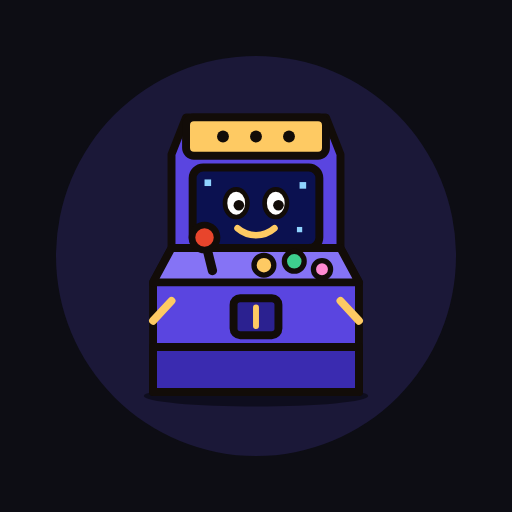
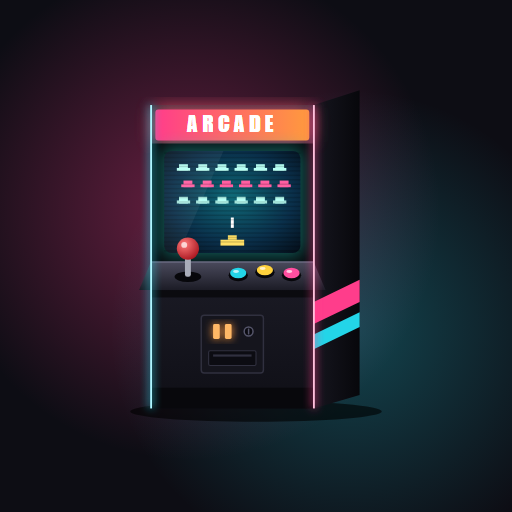
Arcade : l'icône faisait dessin animé, elle devient une vraie borne d'arcade
Julie : « pas enfantin, une vraie arcade ». Meuble noir vu de trois quarts,
fronton allumé, écran cathodique, manette et boutons, monnayeur, liserés néon.
Plus de visage ni de trait épais.

diff --git a/icone.html b/icone.html
@@ -5,43 +5,93 @@ html,body{margin:0;padding:0;background:#fff}
 .icone svg,.masquable svg{display:block;width:512px;height:512px}
 </style></head>
 <body>
-<!-- Une borne d'arcade, vivante (demandé par Julie le 2026-10-05 : « une icône
-     d'arcade »), sur le fond de l'app. tools/chevalier-icones.mjs . photographie
-     .icone (192 et 512) et .masquable (512) : le fond de celle-ci est EXACTEMENT le
-     background_color du manifeste, et le dessin tient dans le cercle central. -->
-<div class="icone"><svg xmlns="http://www.w3.org/2000/svg" viewBox="0 0 512 512"><rect width="512" height="512" fill="#0d0d14"/><circle cx="256" cy="250" r="230" fill="#1b1838"/>
-    <ellipse cx="256" cy="474" rx="170" ry="16" fill="rgba(0,0,0,.45)"/>
-    <path d="M150 52H362L384 108V250L412 302V468H100V302L128 250V108Z" fill="#5a45e0" stroke="#120c08" stroke-width="12" stroke-linejoin="round" stroke-linecap="round"/>
-    <path d="M100 400H412V468H100Z" fill="#3a2bb0" stroke="#120c08" stroke-width="12" stroke-linejoin="round" stroke-linecap="round"/>
-    <path d="M128 330l-28 30M384 330l28 30" stroke="#feca63" stroke-width="12" stroke-linecap="round"/>
-    <rect x="150" y="52" width="212" height="58" rx="12" fill="#feca63" stroke="#120c08" stroke-width="12" stroke-linejoin="round" stroke-linecap="round"/>
-    <g fill="#120c08"><circle cx="206" cy="81" r="9"/><circle cx="256" cy="81" r="9"/><circle cx="306" cy="81" r="9"/></g>
-    <rect x="160" y="128" width="192" height="122" rx="16" fill="#0b1150" stroke="#120c08" stroke-width="12" stroke-linejoin="round" stroke-linecap="round"/>
-    <g fill="#8fd3ff"><rect x="178" y="146" width="10" height="10"/><rect x="322" y="150" width="10" height="10"/><rect x="186" y="222" width="8" height="8"/><rect x="318" y="218" width="8" height="8"/></g>
-    <ellipse cx="226" cy="182" rx="17" ry="21" fill="#fff" stroke="#120c08" stroke-width="7"/><circle cx="230" cy="185" r="8" fill="#120c08"/>
-    <ellipse cx="286" cy="182" rx="17" ry="21" fill="#fff" stroke="#120c08" stroke-width="7"/><circle cx="290" cy="185" r="8" fill="#120c08"/>
-    <path d="M228 220c16 14 40 14 56 0" fill="none" stroke="#feca63" stroke-width="10" stroke-linecap="round"/>
-    <path d="M128 250H384L412 302H100Z" fill="#8573f5" stroke="#120c08" stroke-width="12" stroke-linejoin="round" stroke-linecap="round"/>
-    <path d="M190 284L180 244" stroke="#120c08" stroke-width="14" stroke-linecap="round"/><circle cx="178" cy="234" r="19" fill="#e8452c" stroke="#120c08" stroke-width="10"/>
-    <circle cx="268" cy="276" r="15" fill="#feca63" stroke="#120c08" stroke-width="8"/><circle cx="314" cy="270" r="15" fill="#3ecf8e" stroke="#120c08" stroke-width="8"/><circle cx="356" cy="282" r="13" fill="#ff8ad1" stroke="#120c08" stroke-width="8"/>
-    <rect x="222" y="326" width="68" height="56" rx="10" fill="#2b2190" stroke="#120c08" stroke-width="12" stroke-linejoin="round" stroke-linecap="round"/><path d="M256 340v28" stroke="#feca63" stroke-width="9" stroke-linecap="round"/>
+<!-- Une VRAIE borne d'arcade (Julie, 2026-10-05 : « pas enfantin, une vraie
+     arcade ») : meuble noir vu de trois quarts, fronton allumé, écran cathodique,
+     manette et boutons, monnayeur, liserés néon. Pas de visage, pas de trait de
+     dessin animé. tools/chevalier-icones.mjs . photographie .icone (192 et 512) et
+     .masquable (512) : le fond de celle-ci est EXACTEMENT le background_color du
+     manifeste, et le dessin tient dans le cercle central. -->
+<div class="icone"><svg xmlns="http://www.w3.org/2000/svg" viewBox="0 0 512 512"><defs>
+  <linearGradient id="corps" x1="0" y1="0" x2="0" y2="1"><stop offset="0" stop-color="#2a2a38"/><stop offset="1" stop-color="#0f0f16"/></linearGradient>
+  <linearGradient id="cote" x1="0" y1="0" x2="1" y2="0"><stop offset="0" stop-color="#16161f"/><stop offset="1" stop-color="#07070b"/></linearGradient>
+  <linearGradient id="fronton" x1="0" y1="0" x2="1" y2="0"><stop offset="0" stop-color="#ff3d8b"/><stop offset="1" stop-color="#ff9a3d"/></linearGradient>
+  <linearGradient id="pupitre" x1="0" y1="0" x2="0" y2="1"><stop offset="0" stop-color="#4a4a5c"/><stop offset="1" stop-color="#1c1c26"/></linearGradient>
+  <radialGradient id="ecran" cx=".5" cy=".45" r=".75"><stop offset="0" stop-color="#0f6a78"/><stop offset=".6" stop-color="#0a2f4a"/><stop offset="1" stop-color="#040c16"/></radialGradient>
+  <radialGradient id="boule" cx=".35" cy=".3" r=".8"><stop offset="0" stop-color="#ff7a7a"/><stop offset="1" stop-color="#a3101a"/></radialGradient>
+  <radialGradient id="halo1" cx=".5" cy=".5" r=".5"><stop offset="0" stop-color="#ff3d8b" stop-opacity=".38"/><stop offset="1" stop-color="#ff3d8b" stop-opacity="0"/></radialGradient>
+  <radialGradient id="halo2" cx=".5" cy=".5" r=".5"><stop offset="0" stop-color="#23d5e8" stop-opacity=".28"/><stop offset="1" stop-color="#23d5e8" stop-opacity="0"/></radialGradient>
+  <filter id="lueur" x="-30%" y="-30%" width="160%" height="160%"><feGaussianBlur stdDeviation="12"/></filter>
+  <filter id="lueur2" x="-300%" y="-30%" width="700%" height="160%"><feGaussianBlur stdDeviation="6"/></filter>
+</defs><rect width="512" height="512" fill="#0d0d14"/><circle cx="190" cy="210" r="250" fill="url(#halo1)"/><circle cx="350" cy="330" r="240" fill="url(#halo2)"/><g transform="translate(256 256) scale(1.08) translate(-262 -262)">
+  <ellipse cx="262" cy="474" rx="170" ry="14" fill="#000" opacity=".6"/>
+  <path d="M340 60L402 40V452L340 470Z" fill="url(#cote)"/>
+  <path d="M340 326L402 296V326L340 356Z" fill="#ff3d8b"/><path d="M340 370L402 340V360L340 390Z" fill="#23d5e8"/>
+  <rect x="120" y="60" width="220" height="410" fill="url(#corps)"/>
+  <rect x="124" y="64" width="212" height="46" rx="4" fill="#ff5a6e" filter="url(#lueur)" opacity=".8"/>
+  <rect x="126" y="66" width="208" height="42" rx="4" fill="url(#fronton)"/>
+  <text x="230" y="97" text-anchor="middle" font-family="Impact, 'Arial Black', sans-serif" font-size="30" letter-spacing="5" fill="#fff">ARCADE</text>
+  <rect x="120" y="112" width="220" height="160" fill="#07070b"/>
+  <rect x="134" y="118" width="192" height="146" rx="12" fill="#1ad1c0" filter="url(#lueur)" opacity=".45"/>
+  <rect x="138" y="122" width="184" height="138" rx="10" fill="url(#ecran)"/>
+  <rect x="158" y="140" width="12" height="9" fill="#b7fff4"/><rect x="155" y="145" width="18" height="4" fill="#b7fff4"/><rect x="184" y="140" width="12" height="9" fill="#b7fff4"/><rect x="181" y="145" width="18" height="4" fill="#b7fff4"/><rect x="210" y="140" width="12" height="9" fill="#b7fff4"/><rect x="207" y="145" width="18" height="4" fill="#b7fff4"/><rect x="236" y="140" width="12" height="9" fill="#b7fff4"/><rect x="233" y="145" width="18" height="4" fill="#b7fff4"/><rect x="262" y="140" width="12" height="9" fill="#b7fff4"/><rect x="259" y="145" width="18" height="4" fill="#b7fff4"/><rect x="288" y="140" width="12" height="9" fill="#b7fff4"/><rect x="285" y="145" width="18" height="4" fill="#b7fff4"/><rect x="164" y="162" width="12" height="9" fill="#ff5fa2"/><rect x="161" y="167" width="18" height="4" fill="#ff5fa2"/><rect x="190" y="162" width="12" height="9" fill="#ff5fa2"/><rect x="187" y="167" width="18" height="4" fill="#ff5fa2"/><rect x="216" y="162" width="12" height="9" fill="#ff5fa2"/><rect x="213" y="167" width="18" height="4" fill="#ff5fa2"/><rect x="242" y="162" width="12" height="9" fill="#ff5fa2"/><rect x="239" y="167" width="18" height="4" fill="#ff5fa2"/><rect x="268" y="162" width="12" height="9" fill="#ff5fa2"/><rect x="265" y="167" width="18" height="4" fill="#ff5fa2"/><rect x="294" y="162" width="12" height="9" fill="#ff5fa2"/><rect x="291" y="167" width="18" height="4" fill="#ff5fa2"/><rect x="158" y="184" width="12" height="9" fill="#b7fff4"/><rect x="155" y="189" width="18" height="4" fill="#b7fff4"/><rect x="184" y="184" width="12" height="9" fill="#b7fff4"/><rect x="181" y="189" width="18" height="4" fill="#b7fff4"/><rect x="210" y="184" width="12" height="9" fill="#b7fff4"/><rect x="207" y="189" width="18" height="4" fill="#b7fff4"/><rect x="236" y="184" width="12" height="9" fill="#b7fff4"/><rect x="233" y="189" width="18" height="4" fill="#b7fff4"/><rect x="262" y="184" width="12" height="9" fill="#b7fff4"/><rect x="259" y="189" width="18" height="4" fill="#b7fff4"/><rect x="288" y="184" width="12" height="9" fill="#b7fff4"/><rect x="285" y="189" width="18" height="4" fill="#b7fff4"/>
+  <rect x="224" y="236" width="12" height="6" fill="#ffe066"/><rect x="214" y="242" width="32" height="8" fill="#ffe066"/><rect x="228" y="212" width="4" height="14" fill="#fff"/>
+  <rect x="138" y="124" width="184" height="2" fill="#000" opacity=".16"/><rect x="138" y="130" width="184" height="2" fill="#000" opacity=".16"/><rect x="138" y="136" width="184" height="2" fill="#000" opacity=".16"/><rect x="138" y="142" width="184" height="2" fill="#000" opacity=".16"/><rect x="138" y="148" width="184" height="2" fill="#000" opacity=".16"/><rect x="138" y="154" width="184" height="2" fill="#000" opacity=".16"/><rect x="138" y="160" width="184" height="2" fill="#000" opacity=".16"/><rect x="138" y="166" width="184" height="2" fill="#000" opacity=".16"/><rect x="138" y="172" width="184" height="2" fill="#000" opacity=".16"/><rect x="138" y="178" width="184" height="2" fill="#000" opacity=".16"/><rect x="138" y="184" width="184" height="2" fill="#000" opacity=".16"/><rect x="138" y="190" width="184" height="2" fill="#000" opacity=".16"/><rect x="138" y="196" width="184" height="2" fill="#000" opacity=".16"/><rect x="138" y="202" width="184" height="2" fill="#000" opacity=".16"/><rect x="138" y="208" width="184" height="2" fill="#000" opacity=".16"/><rect x="138" y="214" width="184" height="2" fill="#000" opacity=".16"/><rect x="138" y="220" width="184" height="2" fill="#000" opacity=".16"/><rect x="138" y="226" width="184" height="2" fill="#000" opacity=".16"/><rect x="138" y="232" width="184" height="2" fill="#000" opacity=".16"/><rect x="138" y="238" width="184" height="2" fill="#000" opacity=".16"/><rect x="138" y="244" width="184" height="2" fill="#000" opacity=".16"/><rect x="138" y="250" width="184" height="2" fill="#000" opacity=".16"/><rect x="138" y="256" width="184" height="2" fill="#000" opacity=".16"/>
+  <path d="M138 132a10 10 0 0110-10h70l-60 138h-10a10 10 0 01-10-10z" fill="#fff" opacity=".06"/>
+  <path d="M120 272H340L356 310H104Z" fill="url(#pupitre)"/><path d="M120 272H340" stroke="#6a6a80" stroke-width="2"/>
+  <ellipse cx="170" cy="292" rx="18" ry="7" fill="#07070b"/><rect x="166" y="260" width="8" height="32" rx="3" fill="#a9adba"/><circle cx="170" cy="254" r="15" fill="url(#boule)"/><circle cx="165" cy="249" r="4" fill="#fff" opacity=".7"/>
+  <g><ellipse cx="238" cy="290" rx="13" ry="8" fill="#07070b"/><ellipse cx="238" cy="287" rx="11" ry="7" fill="#23d5e8"/><ellipse cx="235" cy="285" rx="4" ry="2" fill="#fff" opacity=".7"/>
+     <ellipse cx="274" cy="286" rx="13" ry="8" fill="#07070b"/><ellipse cx="274" cy="283" rx="11" ry="7" fill="#ffd23d"/><ellipse cx="271" cy="281" rx="4" ry="2" fill="#fff" opacity=".7"/>
+     <ellipse cx="310" cy="290" rx="13" ry="8" fill="#07070b"/><ellipse cx="310" cy="287" rx="11" ry="7" fill="#ff4fa0"/><ellipse cx="307" cy="285" rx="4" ry="2" fill="#fff" opacity=".7"/></g>
+  <rect x="120" y="310" width="220" height="10" fill="#000" opacity=".55"/>
+  <rect x="188" y="344" width="84" height="78" rx="4" fill="#15151d" stroke="#30303f" stroke-width="2"/>
+  <rect x="204" y="356" width="9" height="20" rx="2" fill="#ff9a3d" filter="url(#lueur2)"/><rect x="220" y="356" width="9" height="20" rx="2" fill="#ff9a3d" filter="url(#lueur2)"/>
+  <rect x="204" y="356" width="9" height="20" rx="2" fill="#ffb866"/><rect x="220" y="356" width="9" height="20" rx="2" fill="#ffb866"/>
+  <circle cx="252" cy="366" r="6" fill="#0a0a10" stroke="#55556a" stroke-width="2"/><rect x="251" y="362" width="2" height="8" fill="#55556a"/>
+  <rect x="198" y="392" width="64" height="20" rx="2" fill="#0c0c12" stroke="#30303f" stroke-width="1.5"/><rect x="204" y="397" width="52" height="3" fill="#30303f"/>
+  <rect x="120" y="442" width="220" height="28" fill="#08080c"/>
+  <rect x="118" y="60" width="4" height="410" fill="#23d5e8" filter="url(#lueur2)"/><rect x="119" y="60" width="2.5" height="410" fill="#aef6ff"/>
+  <rect x="338" y="60" width="4" height="410" fill="#ff3d8b" filter="url(#lueur2)"/><rect x="339" y="60" width="2.5" height="410" fill="#ffc0dc"/></g>
 </svg></div>
-<div class="masquable"><svg xmlns="http://www.w3.org/2000/svg" viewBox="0 0 512 512"><rect width="512" height="512" fill="#0d0d14"/><circle cx="256" cy="256" r="200" fill="#1b1838"/>
-  <g transform="translate(256 256) scale(.66) translate(-256 -262)">
-    <ellipse cx="256" cy="474" rx="170" ry="16" fill="rgba(0,0,0,.45)"/>
-    <path d="M150 52H362L384 108V250L412 302V468H100V302L128 250V108Z" fill="#5a45e0" stroke="#120c08" stroke-width="12" stroke-linejoin="round" stroke-linecap="round"/>
-    <path d="M100 400H412V468H100Z" fill="#3a2bb0" stroke="#120c08" stroke-width="12" stroke-linejoin="round" stroke-linecap="round"/>
-    <path d="M128 330l-28 30M384 330l28 30" stroke="#feca63" stroke-width="12" stroke-linecap="round"/>
-    <rect x="150" y="52" width="212" height="58" rx="12" fill="#feca63" stroke="#120c08" stroke-width="12" stroke-linejoin="round" stroke-linecap="round"/>
-    <g fill="#120c08"><circle cx="206" cy="81" r="9"/><circle cx="256" cy="81" r="9"/><circle cx="306" cy="81" r="9"/></g>
-    <rect x="160" y="128" width="192" height="122" rx="16" fill="#0b1150" stroke="#120c08" stroke-width="12" stroke-linejoin="round" stroke-linecap="round"/>
-    <g fill="#8fd3ff"><rect x="178" y="146" width="10" height="10"/><rect x="322" y="150" width="10" height="10"/><rect x="186" y="222" width="8" height="8"/><rect x="318" y="218" width="8" height="8"/></g>
-    <ellipse cx="226" cy="182" rx="17" ry="21" fill="#fff" stroke="#120c08" stroke-width="7"/><circle cx="230" cy="185" r="8" fill="#120c08"/>
-    <ellipse cx="286" cy="182" rx="17" ry="21" fill="#fff" stroke="#120c08" stroke-width="7"/><circle cx="290" cy="185" r="8" fill="#120c08"/>
-    <path d="M228 220c16 14 40 14 56 0" fill="none" stroke="#feca63" stroke-width="10" stroke-linecap="round"/>
-    <path d="M128 250H384L412 302H100Z" fill="#8573f5" stroke="#120c08" stroke-width="12" stroke-linejoin="round" stroke-linecap="round"/>
-    <path d="M190 284L180 244" stroke="#120c08" stroke-width="14" stroke-linecap="round"/><circle cx="178" cy="234" r="19" fill="#e8452c" stroke="#120c08" stroke-width="10"/>
-    <circle cx="268" cy="276" r="15" fill="#feca63" stroke="#120c08" stroke-width="8"/><circle cx="314" cy="270" r="15" fill="#3ecf8e" stroke="#120c08" stroke-width="8"/><circle cx="356" cy="282" r="13" fill="#ff8ad1" stroke="#120c08" stroke-width="8"/>
-    <rect x="222" y="326" width="68" height="56" rx="10" fill="#2b2190" stroke="#120c08" stroke-width="12" stroke-linejoin="round" stroke-linecap="round"/><path d="M256 340v28" stroke="#feca63" stroke-width="9" stroke-linecap="round"/></g>
+<div class="masquable"><svg xmlns="http://www.w3.org/2000/svg" viewBox="0 0 512 512"><defs>
+  <linearGradient id="m-corps" x1="0" y1="0" x2="0" y2="1"><stop offset="0" stop-color="#2a2a38"/><stop offset="1" stop-color="#0f0f16"/></linearGradient>
+  <linearGradient id="m-cote" x1="0" y1="0" x2="1" y2="0"><stop offset="0" stop-color="#16161f"/><stop offset="1" stop-color="#07070b"/></linearGradient>
+  <linearGradient id="m-fronton" x1="0" y1="0" x2="1" y2="0"><stop offset="0" stop-color="#ff3d8b"/><stop offset="1" stop-color="#ff9a3d"/></linearGradient>
+  <linearGradient id="m-pupitre" x1="0" y1="0" x2="0" y2="1"><stop offset="0" stop-color="#4a4a5c"/><stop offset="1" stop-color="#1c1c26"/></linearGradient>
+  <radialGradient id="m-ecran" cx=".5" cy=".45" r=".75"><stop offset="0" stop-color="#0f6a78"/><stop offset=".6" stop-color="#0a2f4a"/><stop offset="1" stop-color="#040c16"/></radialGradient>
+  <radialGradient id="m-boule" cx=".35" cy=".3" r=".8"><stop offset="0" stop-color="#ff7a7a"/><stop offset="1" stop-color="#a3101a"/></radialGradient>
+  <radialGradient id="m-halo1" cx=".5" cy=".5" r=".5"><stop offset="0" stop-color="#ff3d8b" stop-opacity=".38"/><stop offset="1" stop-color="#ff3d8b" stop-opacity="0"/></radialGradient>
+  <radialGradient id="m-halo2" cx=".5" cy=".5" r=".5"><stop offset="0" stop-color="#23d5e8" stop-opacity=".28"/><stop offset="1" stop-color="#23d5e8" stop-opacity="0"/></radialGradient>
+  <filter id="m-lueur" x="-30%" y="-30%" width="160%" height="160%"><feGaussianBlur stdDeviation="12"/></filter>
+  <filter id="m-lueur2" x="-300%" y="-30%" width="700%" height="160%"><feGaussianBlur stdDeviation="6"/></filter>
+</defs><rect width="512" height="512" fill="#0d0d14"/><circle cx="190" cy="210" r="250" fill="url(#m-halo1)"/><circle cx="350" cy="330" r="240" fill="url(#m-halo2)"/>
+  <g transform="translate(256 256) scale(.74) translate(-262 -264)">
+  <ellipse cx="262" cy="474" rx="170" ry="14" fill="#000" opacity=".6"/>
+  <path d="M340 60L402 40V452L340 470Z" fill="url(#m-cote)"/>
+  <path d="M340 326L402 296V326L340 356Z" fill="#ff3d8b"/><path d="M340 370L402 340V360L340 390Z" fill="#23d5e8"/>
+  <rect x="120" y="60" width="220" height="410" fill="url(#m-corps)"/>
+  <rect x="124" y="64" width="212" height="46" rx="4" fill="#ff5a6e" filter="url(#m-lueur)" opacity=".8"/>
+  <rect x="126" y="66" width="208" height="42" rx="4" fill="url(#m-fronton)"/>
+  <text x="230" y="97" text-anchor="middle" font-family="Impact, 'Arial Black', sans-serif" font-size="30" letter-spacing="5" fill="#fff">ARCADE</text>
+  <rect x="120" y="112" width="220" height="160" fill="#07070b"/>
+  <rect x="134" y="118" width="192" height="146" rx="12" fill="#1ad1c0" filter="url(#m-lueur)" opacity=".45"/>
+  <rect x="138" y="122" width="184" height="138" rx="10" fill="url(#m-ecran)"/>
+  <rect x="158" y="140" width="12" height="9" fill="#b7fff4"/><rect x="155" y="145" width="18" height="4" fill="#b7fff4"/><rect x="184" y="140" width="12" height="9" fill="#b7fff4"/><rect x="181" y="145" width="18" height="4" fill="#b7fff4"/><rect x="210" y="140" width="12" height="9" fill="#b7fff4"/><rect x="207" y="145" width="18" height="4" fill="#b7fff4"/><rect x="236" y="140" width="12" height="9" fill="#b7fff4"/><rect x="233" y="145" width="18" height="4" fill="#b7fff4"/><rect x="262" y="140" width="12" height="9" fill="#b7fff4"/><rect x="259" y="145" width="18" height="4" fill="#b7fff4"/><rect x="288" y="140" width="12" height="9" fill="#b7fff4"/><rect x="285" y="145" width="18" height="4" fill="#b7fff4"/><rect x="164" y="162" width="12" height="9" fill="#ff5fa2"/><rect x="161" y="167" width="18" height="4" fill="#ff5fa2"/><rect x="190" y="162" width="12" height="9" fill="#ff5fa2"/><rect x="187" y="167" width="18" height="4" fill="#ff5fa2"/><rect x="216" y="162" width="12" height="9" fill="#ff5fa2"/><rect x="213" y="167" width="18" height="4" fill="#ff5fa2"/><rect x="242" y="162" width="12" height="9" fill="#ff5fa2"/><rect x="239" y="167" width="18" height="4" fill="#ff5fa2"/><rect x="268" y="162" width="12" height="9" fill="#ff5fa2"/><rect x="265" y="167" width="18" height="4" fill="#ff5fa2"/><rect x="294" y="162" width="12" height="9" fill="#ff5fa2"/><rect x="291" y="167" width="18" height="4" fill="#ff5fa2"/><rect x="158" y="184" width="12" height="9" fill="#b7fff4"/><rect x="155" y="189" width="18" height="4" fill="#b7fff4"/><rect x="184" y="184" width="12" height="9" fill="#b7fff4"/><rect x="181" y="189" width="18" height="4" fill="#b7fff4"/><rect x="210" y="184" width="12" height="9" fill="#b7fff4"/><rect x="207" y="189" width="18" height="4" fill="#b7fff4"/><rect x="236" y="184" width="12" height="9" fill="#b7fff4"/><rect x="233" y="189" width="18" height="4" fill="#b7fff4"/><rect x="262" y="184" width="12" height="9" fill="#b7fff4"/><rect x="259" y="189" width="18" height="4" fill="#b7fff4"/><rect x="288" y="184" width="12" height="9" fill="#b7fff4"/><rect x="285" y="189" width="18" height="4" fill="#b7fff4"/>
+  <rect x="224" y="236" width="12" height="6" fill="#ffe066"/><rect x="214" y="242" width="32" height="8" fill="#ffe066"/><rect x="228" y="212" width="4" height="14" fill="#fff"/>
+  <rect x="138" y="124" width="184" height="2" fill="#000" opacity=".16"/><rect x="138" y="130" width="184" height="2" fill="#000" opacity=".16"/><rect x="138" y="136" width="184" height="2" fill="#000" opacity=".16"/><rect x="138" y="142" width="184" height="2" fill="#000" opacity=".16"/><rect x="138" y="148" width="184" height="2" fill="#000" opacity=".16"/><rect x="138" y="154" width="184" height="2" fill="#000" opacity=".16"/><rect x="138" y="160" width="184" height="2" fill="#000" opacity=".16"/><rect x="138" y="166" width="184" height="2" fill="#000" opacity=".16"/><rect x="138" y="172" width="184" height="2" fill="#000" opacity=".16"/><rect x="138" y="178" width="184" height="2" fill="#000" opacity=".16"/><rect x="138" y="184" width="184" height="2" fill="#000" opacity=".16"/><rect x="138" y="190" width="184" height="2" fill="#000" opacity=".16"/><rect x="138" y="196" width="184" height="2" fill="#000" opacity=".16"/><rect x="138" y="202" width="184" height="2" fill="#000" opacity=".16"/><rect x="138" y="208" width="184" height="2" fill="#000" opacity=".16"/><rect x="138" y="214" width="184" height="2" fill="#000" opacity=".16"/><rect x="138" y="220" width="184" height="2" fill="#000" opacity=".16"/><rect x="138" y="226" width="184" height="2" fill="#000" opacity=".16"/><rect x="138" y="232" width="184" height="2" fill="#000" opacity=".16"/><rect x="138" y="238" width="184" height="2" fill="#000" opacity=".16"/><rect x="138" y="244" width="184" height="2" fill="#000" opacity=".16"/><rect x="138" y="250" width="184" height="2" fill="#000" opacity=".16"/><rect x="138" y="256" width="184" height="2" fill="#000" opacity=".16"/>
+  <path d="M138 132a10 10 0 0110-10h70l-60 138h-10a10 10 0 01-10-10z" fill="#fff" opacity=".06"/>
+  <path d="M120 272H340L356 310H104Z" fill="url(#m-pupitre)"/><path d="M120 272H340" stroke="#6a6a80" stroke-width="2"/>
+  <ellipse cx="170" cy="292" rx="18" ry="7" fill="#07070b"/><rect x="166" y="260" width="8" height="32" rx="3" fill="#a9adba"/><circle cx="170" cy="254" r="15" fill="url(#m-boule)"/><circle cx="165" cy="249" r="4" fill="#fff" opacity=".7"/>
+  <g><ellipse cx="238" cy="290" rx="13" ry="8" fill="#07070b"/><ellipse cx="238" cy="287" rx="11" ry="7" fill="#23d5e8"/><ellipse cx="235" cy="285" rx="4" ry="2" fill="#fff" opacity=".7"/>
+     <ellipse cx="274" cy="286" rx="13" ry="8" fill="#07070b"/><ellipse cx="274" cy="283" rx="11" ry="7" fill="#ffd23d"/><ellipse cx="271" cy="281" rx="4" ry="2" fill="#fff" opacity=".7"/>
+     <ellipse cx="310" cy="290" rx="13" ry="8" fill="#07070b"/><ellipse cx="310" cy="287" rx="11" ry="7" fill="#ff4fa0"/><ellipse cx="307" cy="285" rx="4" ry="2" fill="#fff" opacity=".7"/></g>
+  <rect x="120" y="310" width="220" height="10" fill="#000" opacity=".55"/>
+  <rect x="188" y="344" width="84" height="78" rx="4" fill="#15151d" stroke="#30303f" stroke-width="2"/>
+  <rect x="204" y="356" width="9" height="20" rx="2" fill="#ff9a3d" filter="url(#m-lueur2)"/><rect x="220" y="356" width="9" height="20" rx="2" fill="#ff9a3d" filter="url(#m-lueur2)"/>
+  <rect x="204" y="356" width="9" height="20" rx="2" fill="#ffb866"/><rect x="220" y="356" width="9" height="20" rx="2" fill="#ffb866"/>
+  <circle cx="252" cy="366" r="6" fill="#0a0a10" stroke="#55556a" stroke-width="2"/><rect x="251" y="362" width="2" height="8" fill="#55556a"/>
+  <rect x="198" y="392" width="64" height="20" rx="2" fill="#0c0c12" stroke="#30303f" stroke-width="1.5"/><rect x="204" y="397" width="52" height="3" fill="#30303f"/>
+  <rect x="120" y="442" width="220" height="28" fill="#08080c"/>
+  <rect x="118" y="60" width="4" height="410" fill="#23d5e8" filter="url(#m-lueur2)"/><rect x="119" y="60" width="2.5" height="410" fill="#aef6ff"/>
+  <rect x="338" y="60" width="4" height="410" fill="#ff3d8b" filter="url(#m-lueur2)"/><rect x="339" y="60" width="2.5" height="410" fill="#ffc0dc"/></g>
 </svg></div>
 </body></html>
